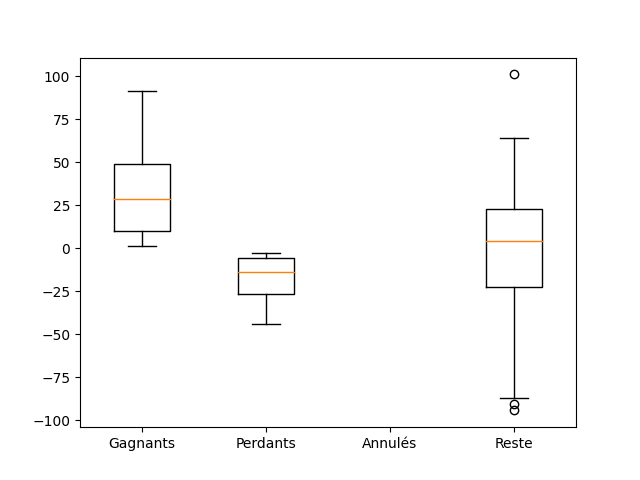
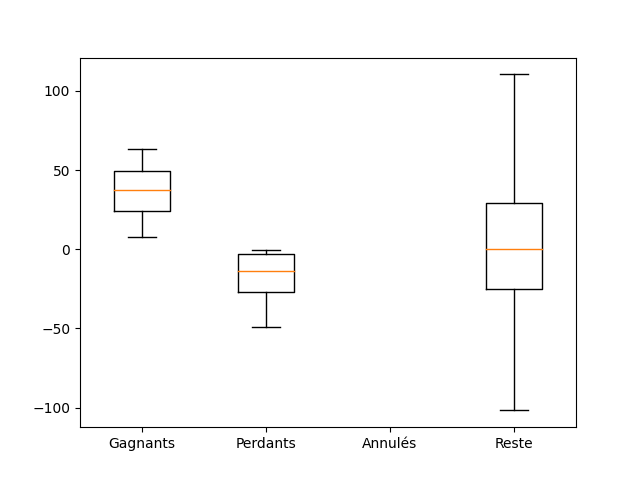
reworked parameters and loop.sh

diff --git a/main.py b/main.py
@@ -5,6 +5,7 @@ import pickle
 import osmnx as ox
 import copy
 import torch
+import argparse
 
 from Cyclist import Cyclist
 from Structure import Structure
@@ -12,13 +13,19 @@ from graphs import *
 from Model import Model
 
 
-min_group_size=5
-
-new_scenario = False
+if __name__ == "__main__": 
+    parse = argparse.ArgumentParser()
+    parse.add_argument('--new-scenario', type=bool, default=False)
+    parse.add_argument('--learning', type=bool, default=False)
+    parse.add_argument('--poisson-lambda', type=float, default=0.05)
+    parse.add_argument('--min-group-size', type=int, default=5)
+    parse.add_argument('--gui', type=bool, default=False)
+    
+args = parse.parse_args()
 
 use_model = False
 save_model = use_model
-learning = False
+learning = True
 batch_size = 32
 hidden_size_1 = 64
 hidden_size_2 = 32
@@ -28,11 +35,10 @@ step_length = 0.2
 
 num_cyclists = 500
 max_num_cyclists_same_time = 50
-poisson_lambda = 0.1
 
-poisson_distrib = np.random.poisson(poisson_lambda, 10000)
+poisson_distrib = np.random.poisson(args.poisson_lambda, 10000)
 while(sum(poisson_distrib)<num_cyclists):
-    poisson_distrib = np.random.poisson(poisson_lambda, 10000)
+    poisson_distrib = np.random.poisson(args.poisson_lambda, 10000)
 
 if(use_model):
     sub_folders = "w_model/"
@@ -49,7 +55,9 @@ if 'SUMO_HOME' in os.environ:
 else:
     sys.exit("please declare environment variable 'SUMO_HOME'")
 
-sumoBinary = "/usr/bin/sumo-gui"
+sumoBinary = "/usr/bin/sumo"
+if(args.gui):
+    sumoBinary += "-gui"
 sumoCmd = [sumoBinary, "-c", "sumo_files/sumo.sumocfg", "--quit-on-end", "--waiting-time-memory", '10000', '--start', '--delay', '0', '--step-length', str(step_length), '--no-warnings']
 
 
@@ -60,7 +68,7 @@ import traci.constants as tc
 
 def spawn_cyclist(id, step, path, net, structure, step_length, max_speed):
     struct_candidate = True
-    if(new_scenario or num_cyclists-id+max(len(structure.id_cyclists_waiting), len(traci.edge.getLastStepVehicleIDs(structure.start_edge.getID())))<structure.min_group_size):
+    if(args.new_scenario or num_cyclists-id+max(len(structure.id_cyclists_waiting), len(traci.edge.getLastStepVehicleIDs(structure.start_edge.getID())))<structure.min_group_size):
         struct_candidate = False
     
     c = Cyclist(str(id), step, path, net, structure, max_speed, traci, sumolib, step_length, struct_candidate=struct_candidate)
@@ -73,7 +81,7 @@ net = sumolib.net.readNet('sumo_files/net.net.xml')
 edges = net.getEdges()
 
 
-if(new_scenario):
+if(args.new_scenario):
     print("WARNING : Creating a new scenario...")
     tab_scenario=[]
 else:
@@ -102,14 +110,14 @@ dict_cyclists= {}
 dict_cyclists_arrived = {}
 
 structure = Structure("E0", "E2", edges, net, dict_cyclists, traci, dict_edges_index, model,\
-open=not new_scenario, min_group_size=min_group_size, batch_size=batch_size, learning=learning, lr=lr)
+open=not args.new_scenario, min_group_size=args.min_group_size, batch_size=batch_size, learning=args.learning, lr=lr)
 
 
 id = 0
 step = 0
 
 while(len(dict_cyclists) != 0 or id<num_cyclists):
-    if(new_scenario):
+    if(args.new_scenario):
         if(id<num_cyclists and poisson_distrib[int(step)] != 0):
             if(len(dict_cyclists)<max_num_cyclists_same_time):
                 poisson_distrib[int(step)] = 0
@@ -141,7 +149,7 @@ while(len(dict_cyclists) != 0 or id<num_cyclists):
                     structure.list_target.append(target)                  
                     del structure.dict_model_input[i]
 
-                if(new_scenario):
+                if(args.new_scenario):
                     tab_scenario[int(dict_cyclists[i].id)]["finish_step"] = step
                     tab_scenario[int(dict_cyclists[i].id)]["waiting_time"] = dict_cyclists[i].waiting_time
                     tab_scenario[int(dict_cyclists[i].id)]["distance_travelled"] = dict_cyclists[i].distance_travelled
@@ -159,7 +167,7 @@ while(len(dict_cyclists) != 0 or id<num_cyclists):
 
     step += step_length
 
-if(new_scenario):
+if(args.new_scenario):
     print("WARNING: Saving scenario...")
     with open('scenario.tab', 'wb') as outfile:
         pickle.dump(tab_scenario, outfile)
@@ -173,7 +181,7 @@ print("\ndata number:", len(dict_cyclists_arrived), ",", structure.num_cyclists_
 
 
 
-if(not new_scenario):
+if(not args.new_scenario):
     tab_all_diff_arrival_time, tab_diff_finish_step, tab_diff_waiting_time, tab_diff_distance_travelled, tab_num_type_cyclists =\
     compute_graphs_data(structure.open, dict_cyclists_arrived, tab_scenario)
     
@@ -213,12 +221,13 @@ if(not new_scenario):
         plot_and_save_bar(tab_num_type_cyclists, "cyclists_type", labels=labels, sub_folders=sub_folders)
 
 
-        if(learning):
+        if(args.learning):
             
             if(not os.path.exists("files/"+sub_folders)):
                 os.makedirs("files/"+sub_folders)
                 tab_num_cycl = [[], []]
                 tab_time_diff = []
+                tab_x_values = []
                 if(use_model):
                     tab_mean_loss = []
             else:
@@ -226,26 +235,27 @@ if(not new_scenario):
                     tab_num_cycl = pickle.load(infile)
                 with open('files/'+sub_folders+'time_diff.tab', 'rb') as infile:
                     tab_time_diff = pickle.load(infile)
+                with open('files/'+sub_folders+'x_values.tab', 'rb') as infile:
+                    tab_x_values = pickle.load(infile)
                 if(use_model):
                     with open('files/'+sub_folders+'mean_loss.tab', 'rb') as infile:
                         tab_mean_loss = pickle.load(infile)
 
-            with open('files/'+sub_folders+'structure_uses.dict', 'wb') as outfile:
-                pickle.dump(dict_structure_uses, outfile)
 
             tab_num_cycl[0].append(structure.num_cyclists_crossed)
             tab_num_cycl[1].append(structure.num_cyclists_canceled)
             tab_time_diff.append(mean_diff_finish_step)
+            tab_x_values.append(args.poisson_lambda)
 
             print(tab_num_cycl[0], tab_num_cycl[1], tab_time_diff)
 
             plt.clf()
-            plt.plot(tab_time_diff)
+            plt.plot(tab_x_values, tab_time_diff)
             plt.savefig("images/"+sub_folders+"evolution_time_diff.png")
 
             plt.clf()
-            plt.plot(tab_num_cycl[0], label="num crossed")
-            plt.plot(tab_num_cycl[1], label="num canceled")
+            plt.plot(tab_x_values, tab_num_cycl[0], label="num crossed")
+            plt.plot(tab_x_values, tab_num_cycl[1], label="num canceled")
             plt.legend()
             plt.savefig("images/"+sub_folders+"evolution_num_cycl_using_struct.png")
 
@@ -253,6 +263,8 @@ if(not new_scenario):
                 pickle.dump(tab_num_cycl, outfile)
             with open('files/'+sub_folders+'time_diff.tab', 'wb') as outfile:
                 pickle.dump(tab_time_diff, outfile)
+            with open('files/'+sub_folders+'x_values.tab', 'wb') as outfile:
+                pickle.dump(tab_x_values, outfile)
 
             if(use_model and save_model and len(structure.list_loss) != 0):
                 print(tab_mean_loss)
